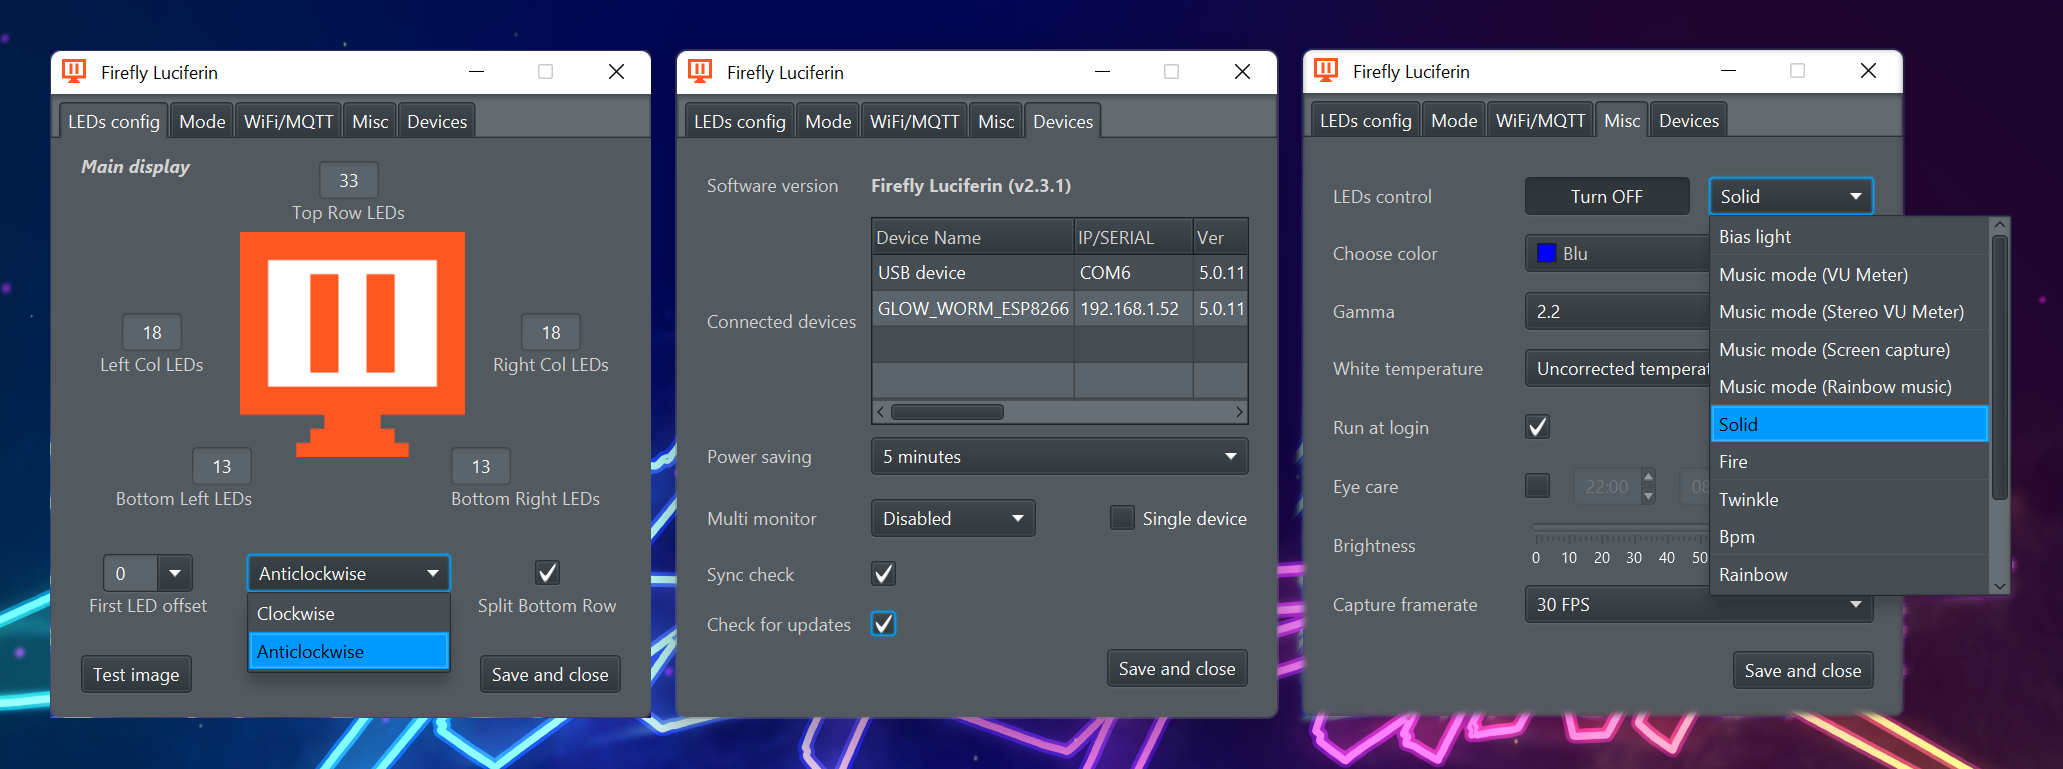
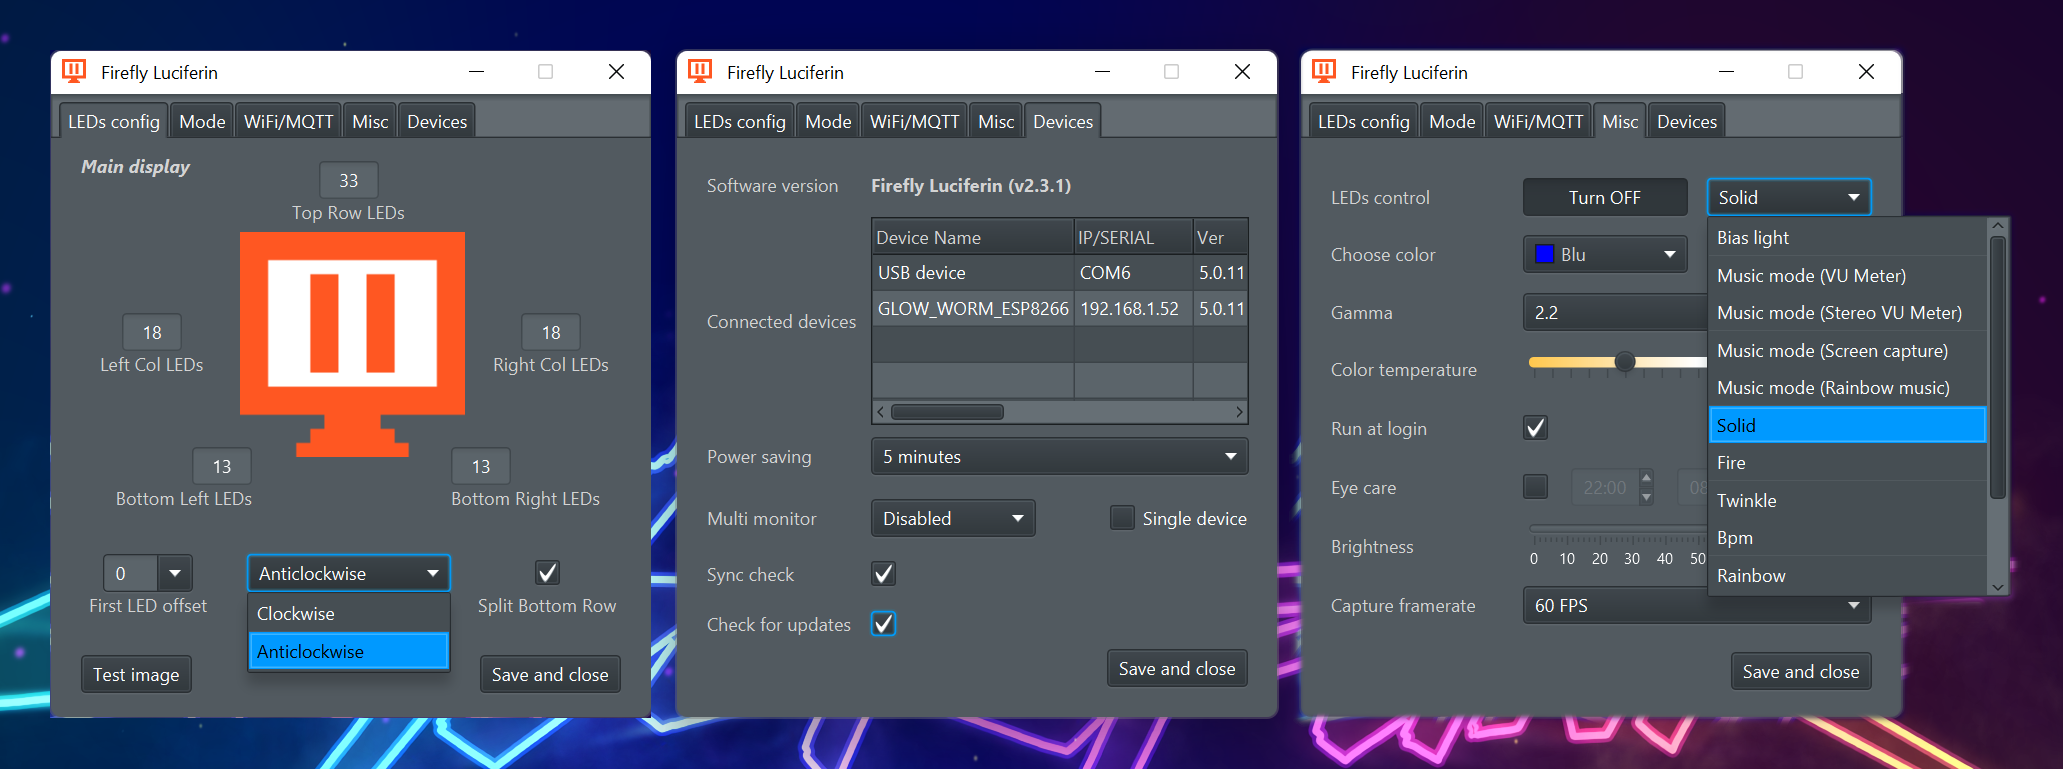
added 115200 baudrate added the possibility to configure baudrate/color mode via web interface

diff --git a/src/main/java/org/dpsoftware/FireflyLuciferin.java b/src/main/java/org/dpsoftware/FireflyLuciferin.java
@@ -160,7 +160,7 @@ public class FireflyLuciferin extends Application implements SerialPortEventList
         ledNumber = CommonUtility.isSingleDeviceMultiScreen() ? MessageServer.totalLedNum : config.getLedMatrixInUse(ledMatrixInUse).size();
         ledNumHighLowCount = ledNumber > Constants.SERIAL_CHUNK_SIZE ? Constants.SERIAL_CHUNK_SIZE - 1 : ledNumber - 1;
         ledNumHighLowCountSecondPart = ledNumber > Constants.SERIAL_CHUNK_SIZE ? ledNumber - Constants.SERIAL_CHUNK_SIZE : 0;
-        baudRate = Constants.BaudRate.valueOf(Constants.BAUD_RATE_PLACEHOLDER + config.getBaudRate()).ordinal() + 1;
+        baudRate = Constants.BaudRate.valueOf(Constants.BAUD_RATE_PLACEHOLDER + config.getBaudRate()).getBaudRateValue();
         // Check if I'm the main program, if yes and multi monitor, spawn other guys
         NativeExecutor.spawnNewInstances();
         if (CommonUtility.isSingleDeviceMainInstance() || !CommonUtility.isSingleDeviceMultiScreen()) {
@@ -671,14 +671,15 @@ public class FireflyLuciferin extends Application implements SerialPortEventList
                                 } else if (inputLine.contains(Constants.SERIAL_MQTTTOPIC)) {
                                     glowWormDevice.setMqttTopic(inputLine.replace(Constants.SERIAL_MQTTTOPIC, ""));
                                 } else if (inputLine.contains(Constants.SERIAL_COLOR_MODE)) {
-                                    glowWormDevice.setColorMode(Constants.ColorMode.values()[Integer.parseInt(inputLine.replace(Constants.SERIAL_COLOR_MODE, ""))].getI18n());
+                                    glowWormDevice.setColorMode(Constants.ColorMode.values()[Integer.parseInt(inputLine.replace(Constants.SERIAL_COLOR_MODE, "")) - 1].getI18n());
                                 } else if (inputLine.contains(Constants.SERIAL_BAUDRATE)) {
+                                    log.debug(inputLine);
                                     boolean validBaudrate = true;
                                     int receivedBaudrate = Integer.parseInt(inputLine.replace(Constants.SERIAL_BAUDRATE, ""));
-                                    if (!(receivedBaudrate >= 1 && receivedBaudrate <= 7)) {
+                                    if (!(receivedBaudrate >= 1 && receivedBaudrate <= 8)) {
                                         validBaudrate = false;
                                     }
-                                    glowWormDevice.setBaudRate(validBaudrate ? Constants.BaudRate.values()[receivedBaudrate - 1].getBaudRate() : Constants.DASH);
+                                    glowWormDevice.setBaudRate(validBaudrate ? Constants.BaudRate.findByValue(receivedBaudrate).getBaudRate() : Constants.DASH);
                                 } else if (!config.isWifiEnable() && inputLine.contains(Constants.SERIAL_FRAMERATE)) {
                                     FPS_GW_CONSUMER = Float.parseFloat(inputLine.replace(Constants.SERIAL_FRAMERATE, ""));
                                 }
@@ -687,7 +688,7 @@ public class FireflyLuciferin extends Application implements SerialPortEventList
                     });
                 }
             } catch (Exception e) {
-                // We don't care about this exception
+                // We don't care about this exception, it's caused by unknown serial messages
             }
         }
 
@@ -896,8 +897,7 @@ public class FireflyLuciferin extends Application implements SerialPortEventList
             int gpioToSend = (gpio) & 0xff;
             int baudRateToSend = (baudRate) & 0xff;
             int whiteTempToSend = (FireflyLuciferin.config.getWhiteTemperature()) & 0xff;
-            // Avoid upgrade firmware effect number for new audio effect.
-            int fireflyEffectToSend = (fireflyEffect >= 5 ? fireflyEffect-1 : fireflyEffect) & 0xff;
+            int fireflyEffectToSend = (fireflyEffect) & 0xff;
             int colorModeToSend = (FireflyLuciferin.config.getColorMode()) & 0xff;
 
             ledsArray[++j] = (byte) ('D');

diff --git a/src/main/java/org/dpsoftware/utilities/CommonUtility.java b/src/main/java/org/dpsoftware/utilities/CommonUtility.java
@@ -261,7 +261,7 @@ public class CommonUtility {
         try {
             CommonUtility.conditionedLog("CommonUtility", CommonUtility.toJsonStringPrettyPrinted(actualObj));
             boolean validBaudRate = Integer.parseInt(actualObj.get(Constants.BAUD_RATE).toString()) >= 1
-                    && Integer.parseInt(actualObj.get(Constants.BAUD_RATE).toString()) <= 7;
+                    && Integer.parseInt(actualObj.get(Constants.BAUD_RATE).toString()) <= 8;
             if (FireflyLuciferin.config.getMultiMonitor() == 1 && (FireflyLuciferin.config.getSerialPort() == null
                     || FireflyLuciferin.config.getSerialPort().isEmpty()
                     || FireflyLuciferin.config.getSerialPort().equals(Constants.SERIAL_PORT_AUTO))) {
@@ -298,7 +298,7 @@ public class CommonUtility {
                         (FireflyLuciferin.formatter.format(new Date())),
                         Constants.FirmwareType.FULL.name(),
                         (((actualObj.get(Constants.BAUD_RATE) == null) || !validBaudRate) ? Constants.DASH :
-                                Constants.BaudRate.values()[Integer.parseInt(actualObj.get(Constants.BAUD_RATE).toString()) - 1].getBaudRate()),
+                                Constants.BaudRate.findByValue(Integer.parseInt(actualObj.get(Constants.BAUD_RATE).toString())).getBaudRate()),
                         (actualObj.get(Constants.MQTT_TOPIC) == null ? FireflyLuciferin.config.isWifiEnable() ? Constants.MQTT_BASE_TOPIC : Constants.DASH
                                 : actualObj.get(Constants.MQTT_TOPIC).textValue()),
                         deviceColorMode));
@@ -346,14 +346,17 @@ public class CommonUtility {
                         glowWormDevice.setDeviceIP(mqttmsg.get(Constants.STATE_IP).textValue());
                     }
                     if (mqttmsg.get(Constants.WHITE_TEMP) != null) {
-                        if (CommonUtility.getDeviceToUse().getMac().equals(glowWormDevice.getMac())) {
+                        if (CommonUtility.getDeviceToUse() != null && CommonUtility.getDeviceToUse().getMac().equals(glowWormDevice.getMac())) {
                             FireflyLuciferin.config.setWhiteTemperature(mqttmsg.get(Constants.WHITE_TEMP).asInt());
                         }
+                    }
+                    if (mqttmsg.get(Constants.BAUD_RATE) != null) {
+                        glowWormDevice.setBaudRate(Constants.BaudRate.findByValue(mqttmsg.get(Constants.BAUD_RATE).intValue()).getBaudRate());
                     }
                     if (mqttmsg.get(Constants.COLOR) != null && mqttmsg.get(Constants.COLOR).get(Constants.COLOR_MODE) != null) {
                         int tempColorMode = mqttmsg.get(Constants.COLOR).get(Constants.COLOR_MODE).asInt();
                         glowWormDevice.setColorMode(Constants.ColorMode.values()[tempColorMode - 1].getI18n());
-                        if (CommonUtility.getDeviceToUse().getMac().equals(glowWormDevice.getMac())) {
+                        if (CommonUtility.getDeviceToUse() != null && CommonUtility.getDeviceToUse().getMac().equals(glowWormDevice.getMac())) {
                             FireflyLuciferin.config.setColorMode(tempColorMode);
                         }
                     }

diff --git a/src/main/java/org/dpsoftware/config/Constants.java b/src/main/java/org/dpsoftware/config/Constants.java
@@ -21,6 +21,8 @@
 */
 package org.dpsoftware.config;
 
+import java.util.Arrays;
+
 /**
  * Constants and Strings
  */
@@ -103,19 +105,28 @@ public class Constants {
 		}
 	}
 	public enum BaudRate {
-		BAUD_RATE_230400	("230400"),
-		BAUD_RATE_460800	("460800"),
-		BAUD_RATE_500000	("500000"),
-		BAUD_RATE_921600	("921600"),
-		BAUD_RATE_1000000	("1000000"),
-		BAUD_RATE_1500000	("1500000"),
-		BAUD_RATE_2000000	("2000000");
+		BAUD_RATE_115200	("115200", 8),
+		BAUD_RATE_230400	("230400", 1),
+		BAUD_RATE_460800	("460800", 2),
+		BAUD_RATE_500000	("500000", 3),
+		BAUD_RATE_921600	("921600", 4),
+		BAUD_RATE_1000000	("1000000", 5),
+		BAUD_RATE_1500000	("1500000", 6),
+		BAUD_RATE_2000000	("2000000", 7);
 		private final String baudRate;
-		BaudRate(String baudRate) {
+		private final int baudRateValue;
+		BaudRate(String baudRate, int baudRateValue) {
 			this.baudRate = baudRate;
+			this.baudRateValue = baudRateValue;
 		}
 		public String getBaudRate(){
 			return baudRate;
+		}
+		public int getBaudRateValue(){
+			return baudRateValue;
+		}
+		public static BaudRate findByValue(final int baudRateValToSearch){
+			return Arrays.stream(values()).filter(value -> value.getBaudRateValue() == baudRateValToSearch).findFirst().orElse(null);
 		}
 	}
 	public enum Framerate implements LocalizedEnum {
@@ -409,12 +420,9 @@ public class Constants {
 	public static final String CONFIG_FILENAME = "FireflyLuciferin.yaml";
 	public static final String CONFIG_FILENAME_2 = "FireflyLuciferin_2.yaml";
 	public static final String CONFIG_FILENAME_3 = "FireflyLuciferin_3.yaml";
-	public static final String ALREADY_EXIST = "already.exist";
 	public static final String WAS_CREATED = "was.created";
-	public static final String WAS_NOT_CREATED = "was.not.created";
 	public static final String CLEANING_OLD_CONFIG = "cleaning.old.config";
 	public static final String FAILED_TO_CLEAN_CONFIG = "failed.to.clean.old.config";
-	public static final String CONFIG_OK = "config.ok";
 	public static final String OK = "OK";
 	public static final String KO = "KO";
 	public static final String FIRMWARE_UPGRADE_RES = "firmware.upgrade.res";

diff --git a/src/main/java/org/dpsoftware/gui/controllers/SettingsController.java b/src/main/java/org/dpsoftware/gui/controllers/SettingsController.java
@@ -349,6 +349,13 @@ public class SettingsController {
             if (config.isWifiEnable() && !config.isMqttEnable() && firstStartup) {
                 config.setSerialPort(Constants.SERIAL_PORT_AUTO);
             }
+            if (firstStartup) {
+                if (config.isWifiEnable()) {
+                    config.setBaudRate(Constants.BaudRate.BAUD_RATE_115200.getBaudRate());
+                } else {
+                    config.setBaudRate(Constants.BaudRate.BAUD_RATE_500000.getBaudRate());
+                }
+            }
             // Manage settings from one instance to the other, for multi monitor setup
             if (JavaFXStarter.whoAmI != 1) {
                 Configuration mainConfig = sm.readConfig(true);
@@ -460,13 +467,13 @@ public class SettingsController {
             ButtonType button = result.orElse(ButtonType.OK);
             if (button == ButtonType.OK) {
                 if (currentConfig.isWifiEnable()) {
-                    firmwareConfigDto.setBaudrate(String.valueOf(Constants.BaudRate.valueOf(Constants.BAUD_RATE_PLACEHOLDER + modeTabController.baudRate.getValue()).ordinal() + 1));
+                    firmwareConfigDto.setBaudrate(String.valueOf(Constants.BaudRate.valueOf(Constants.BAUD_RATE_PLACEHOLDER + modeTabController.baudRate.getValue()).getBaudRateValue()));
                     if (isMqttTopicChanged) {
                         firmwareConfigDto.setMqttopic(mqttTopic);
                     }
                     MQTTManager.publishToTopic(MQTTManager.getMqttTopic(Constants.MQTT_FIRMWARE_CONFIG), CommonUtility.toJsonString(firmwareConfigDto));
                 } else {
-                    FireflyLuciferin.baudRate = Constants.BaudRate.valueOf(Constants.BAUD_RATE_PLACEHOLDER + modeTabController.baudRate.getValue()).ordinal() + 1;
+                    FireflyLuciferin.baudRate = Constants.BaudRate.valueOf(Constants.BAUD_RATE_PLACEHOLDER + modeTabController.baudRate.getValue()).getBaudRateValue();
                     miscTabController.sendSerialParams();
                 }
                 exit(e);
